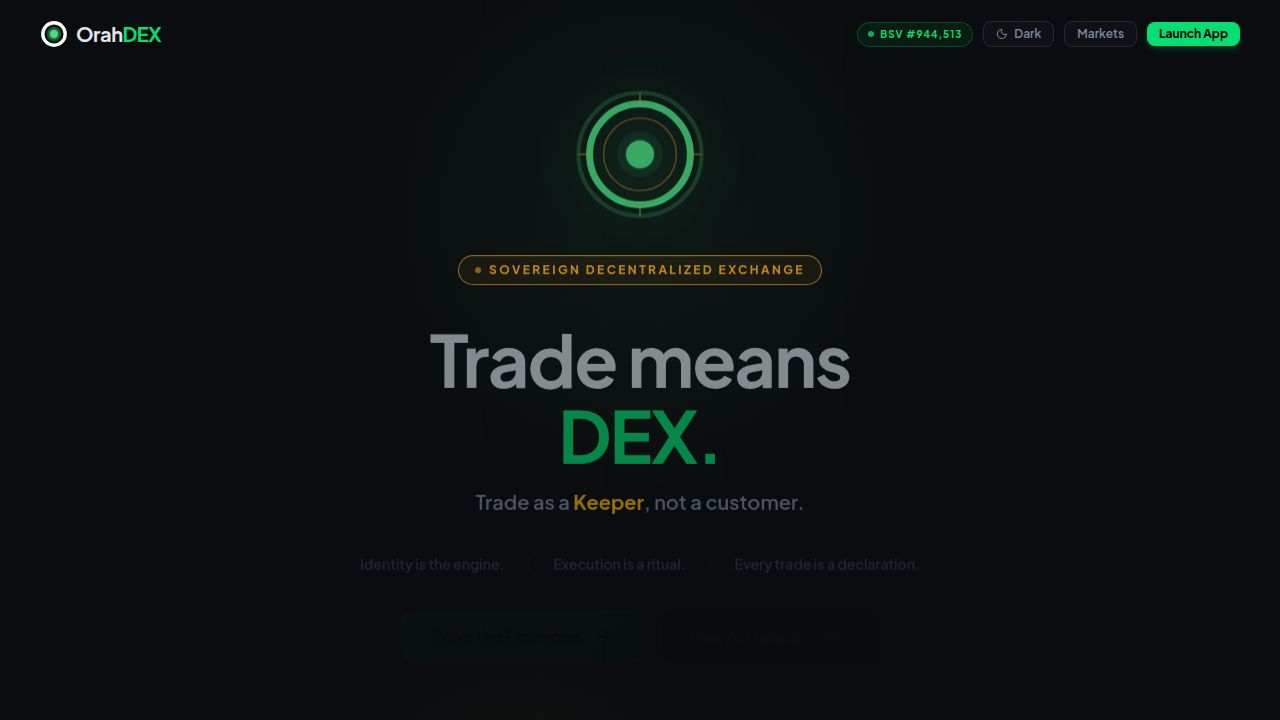
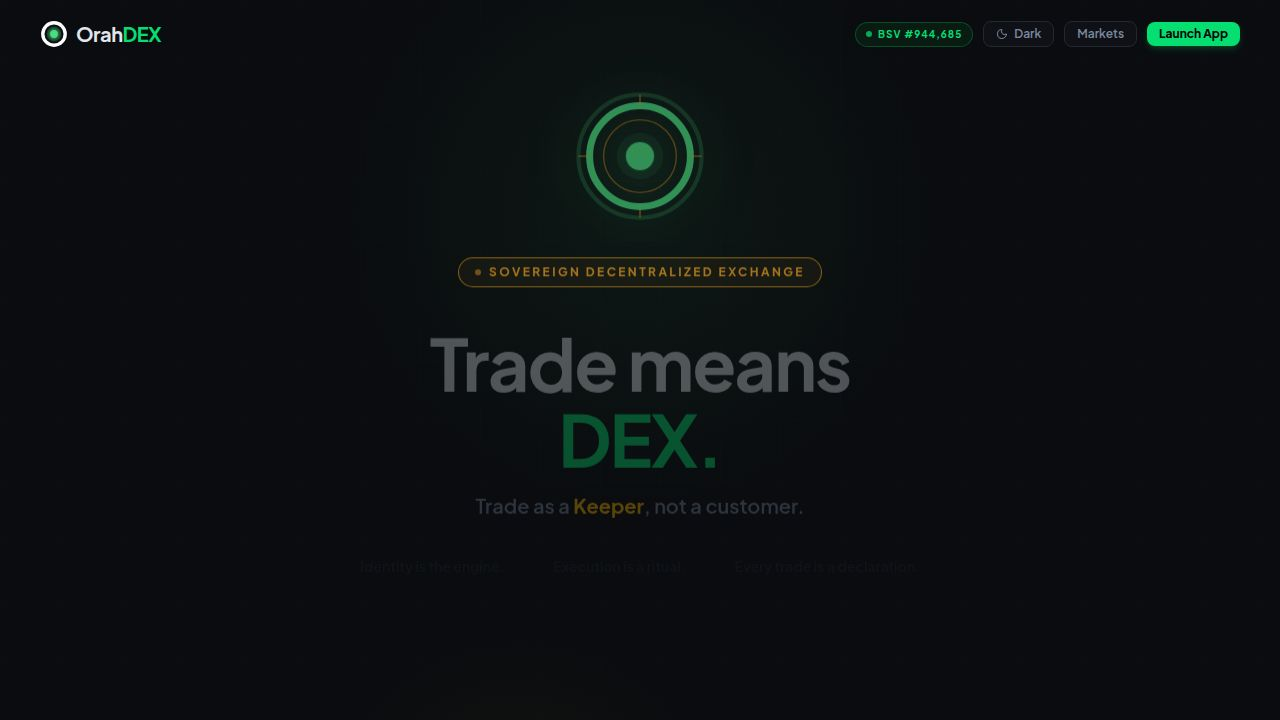
Adjust trading page layout for better mobile and desktop viewing
Update layout in `Prediction.tsx` to stack chart and form vertically on mobile, with a fixed chart height, and adjust header elements for responsiveness.

Replit-Commit-Author: Agent
Replit-Commit-Session-Id: b9468ce8-a781-44a5-9d14-5bf2abdf2a4a
Replit-Commit-Checkpoint-Type: full_checkpoint
Replit-Commit-Event-Id: a32c0e81-ed33-4526-a84a-2cbfeca5ca9a
Replit-Commit-Screenshot-Url: https://storage.googleapis.com/screenshot-production-us-central1/748c5e24-ef08-447f-a71b-5e9894ce4896/b9468ce8-a781-44a5-9d14-5bf2abdf2a4a/fZEhcsX
Replit-Helium-Checkpoint-Created: true

diff --git a/artifacts/bsv-dex/src/pages/Prediction.tsx b/artifacts/bsv-dex/src/pages/Prediction.tsx
@@ -378,14 +378,14 @@ export function PredictionTrading() {
   return (
     <div className="flex flex-col h-full">
       {/* Header */}
-      <div className="flex items-center gap-3 px-4 py-2 border-b border-border/50 shrink-0">
-        <div className="flex items-center gap-2">
+      <div className="flex items-center gap-2 lg:gap-3 px-3 lg:px-4 py-2 border-b border-border/50 shrink-0 overflow-x-auto">
+        <div className="flex items-center gap-2 shrink-0">
           <CoinLogo symbol={base} size={24} />
           <div>
             <div className="flex items-center gap-2">
-              <h2 className="text-base font-black">{symbol.replace("-", "/")}</h2>
+              <h2 className="text-sm lg:text-base font-black">{symbol.replace("-", "/")}</h2>
               <span className={cn(
-                "text-sm font-bold",
+                "text-xs lg:text-sm font-bold",
                 currentPrice > 0 ? "text-foreground" : "text-muted-foreground",
               )}>
                 ${formatPrice(currentPrice)}
@@ -394,13 +394,13 @@ export function PredictionTrading() {
             <p className="text-[10px] text-muted-foreground">Prediction — 5-min rounds</p>
           </div>
         </div>
-        <div className="ml-auto flex items-center gap-1.5">
+        <div className="ml-auto flex items-center gap-1 lg:gap-1.5 shrink-0">
           {SYMBOLS.map(s => (
             <button
               key={s}
               onClick={() => { setSymbol(s); setSelectedRound(null); }}
               className={cn(
-                "px-2 py-1 rounded-lg text-[11px] font-bold transition-colors",
+                "px-1.5 lg:px-2 py-1 rounded-lg text-[10px] lg:text-[11px] font-bold transition-colors",
                 symbol === s ? "bg-primary/20 text-primary border border-primary/30" : "text-muted-foreground hover:text-foreground",
               )}
             >
@@ -408,16 +408,16 @@ export function PredictionTrading() {
             </button>
           ))}
         </div>
-        <div className="flex items-center gap-1.5 ml-3 border-l border-border/30 pl-3">
+        <div className="hidden sm:flex items-center gap-1.5 ml-3 border-l border-border/30 pl-3 shrink-0">
           <DollarSign size={12} className="text-green-400" />
           <span className="text-xs font-bold">{usdtBalance.toLocaleString("en-US", { minimumFractionDigits: 2, maximumFractionDigits: 2 })}</span>
           <span className="text-[10px] text-muted-foreground">USDT</span>
         </div>
       </div>
 
-      <div className="flex-1 flex overflow-hidden">
+      <div className="flex-1 flex flex-col lg:flex-row overflow-auto lg:overflow-hidden">
         {/* LEFT: Chart + Rounds */}
-        <div className="flex-1 flex flex-col overflow-hidden min-w-0">
+        <div className="lg:flex-1 flex flex-col overflow-hidden min-w-0">
           {/* Tab bar */}
           <div className="flex items-center gap-1 px-4 py-1.5 border-b border-border/30 shrink-0">
             <button onClick={() => setTab("chart")} className={cn("px-3 py-1 rounded-lg text-xs font-bold", tab === "chart" ? "bg-primary/20 text-primary" : "text-muted-foreground hover:text-foreground")}>
@@ -438,7 +438,7 @@ export function PredictionTrading() {
 
           {/* Chart tab */}
           {tab === "chart" && (
-            <div className="flex-1 relative min-h-0" style={{ minHeight: "360px" }}>
+            <div className="relative h-[250px] lg:h-auto lg:flex-1 lg:min-h-[360px]">
               <Suspense fallback={<div className="flex items-center justify-center h-full text-muted-foreground text-sm">Loading chart...</div>}>
                 <Chart
                   symbol={symbol}
@@ -562,7 +562,7 @@ export function PredictionTrading() {
         </div>
 
         {/* RIGHT: Bet panel */}
-        <div className="w-[320px] border-l border-border/50 flex flex-col bg-card/30 shrink-0">
+        <div className="w-full lg:w-[320px] border-t lg:border-t-0 lg:border-l border-border/50 flex flex-col bg-card/30 shrink-0">
           {/* Active round info */}
           {selectedRound && (
             <div className="px-4 py-2 border-b border-border/30 bg-card/50">